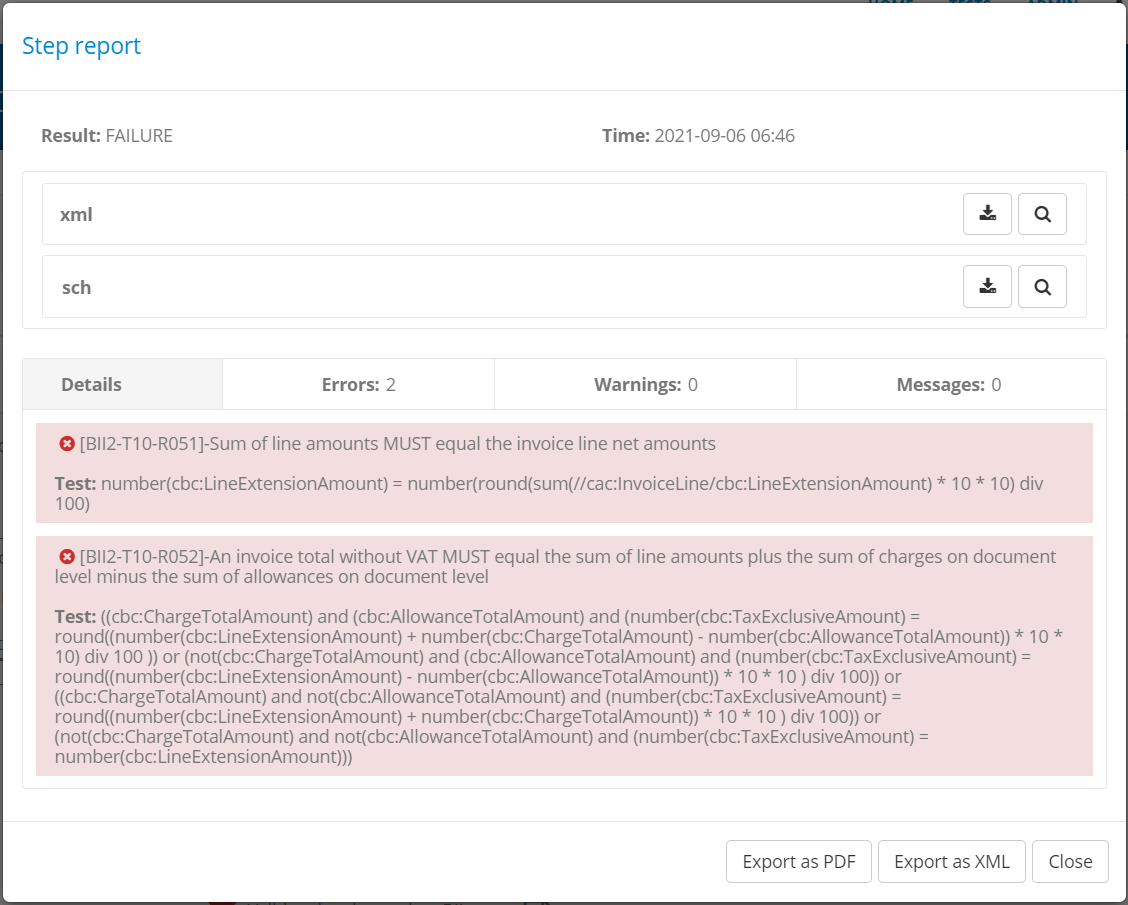
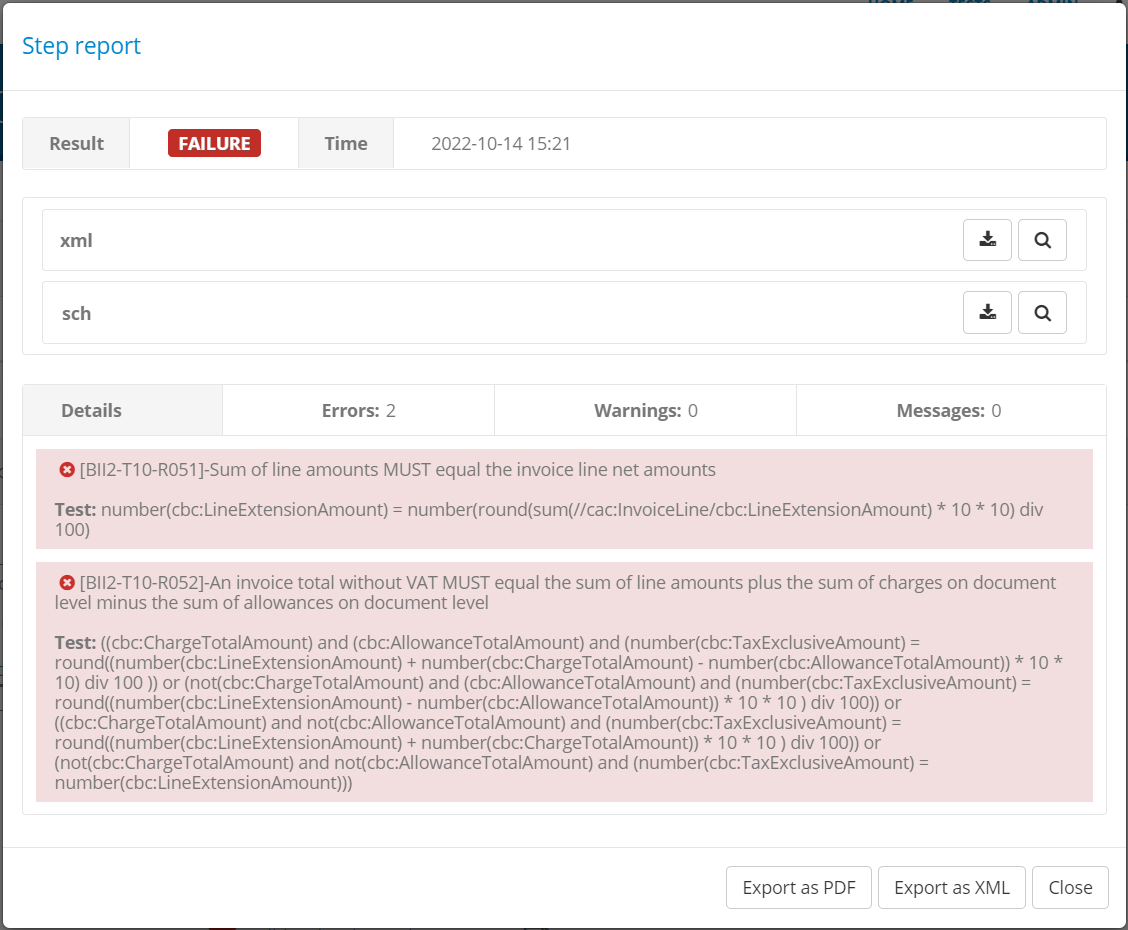
OU updates for release 1.18.1

diff --git a/source/conf.py b/source/conf.py
@@ -24,9 +24,9 @@ copyright = '2022, European Commission, DIGIT'
 author = 'European Commission, DIGIT'
 
 # The short X.Y version
-version = 'ITB version 1.18.0'
+version = 'ITB version 1.18.1'
 # The full version, including alpha/beta/rc tags
-release = 'ITB version 1.18.0'
+release = 'ITB version 1.18.1'
 
 html_show_sourcelink = False
 html_show_sphinx = False

diff --git a/source/changeHistory/index.rst b/source/changeHistory/index.rst
@@ -8,7 +8,23 @@ the following information is provided:
 * The **release summary**, describing briefly the main focus of the release and its key highlights.
 * The **release details**, listing the issues addressed in each release (bug fixes, new features and improvements).
 
-The latest test bed release is **1.18.0**.
+The latest test bed release is **1.18.1**.
+
+Release 1.18.1 - 24/11/2022
+---------------------------
+
+This is a minor maintenance release to upgrade third party libraries and the test bed's database, as well as correct an
+issue reported by test bed users when viewing the test session history.
+
+**Bug**
+
+* [ITB-1331] - Viewing the test session history may produce an "Out of sort memory" error
+
+**Improvement**
+
+* [ITB-1329] - Upgrade MySQL to version 8.0.31
+* [ITB-1330] - Upgrade Commons Text to resolve CVE-2022-42889 (Text4Shell)
+* [ITB-1332] - Colour-code result text displayed in test step report modals
 
 Release 1.18.0 - 17/10/2022
 ---------------------------
@@ -150,7 +166,6 @@ of tooltips and the test bed's test execution REST API.
 
 * [ITB-1182] - Upgrade to Java 11.0.14
 * [ITB-1183] - Upgrade 3rd party libraries to address reported CVEs
-
 
 Release 1.16.0 - 18/03/2022
 ---------------------------